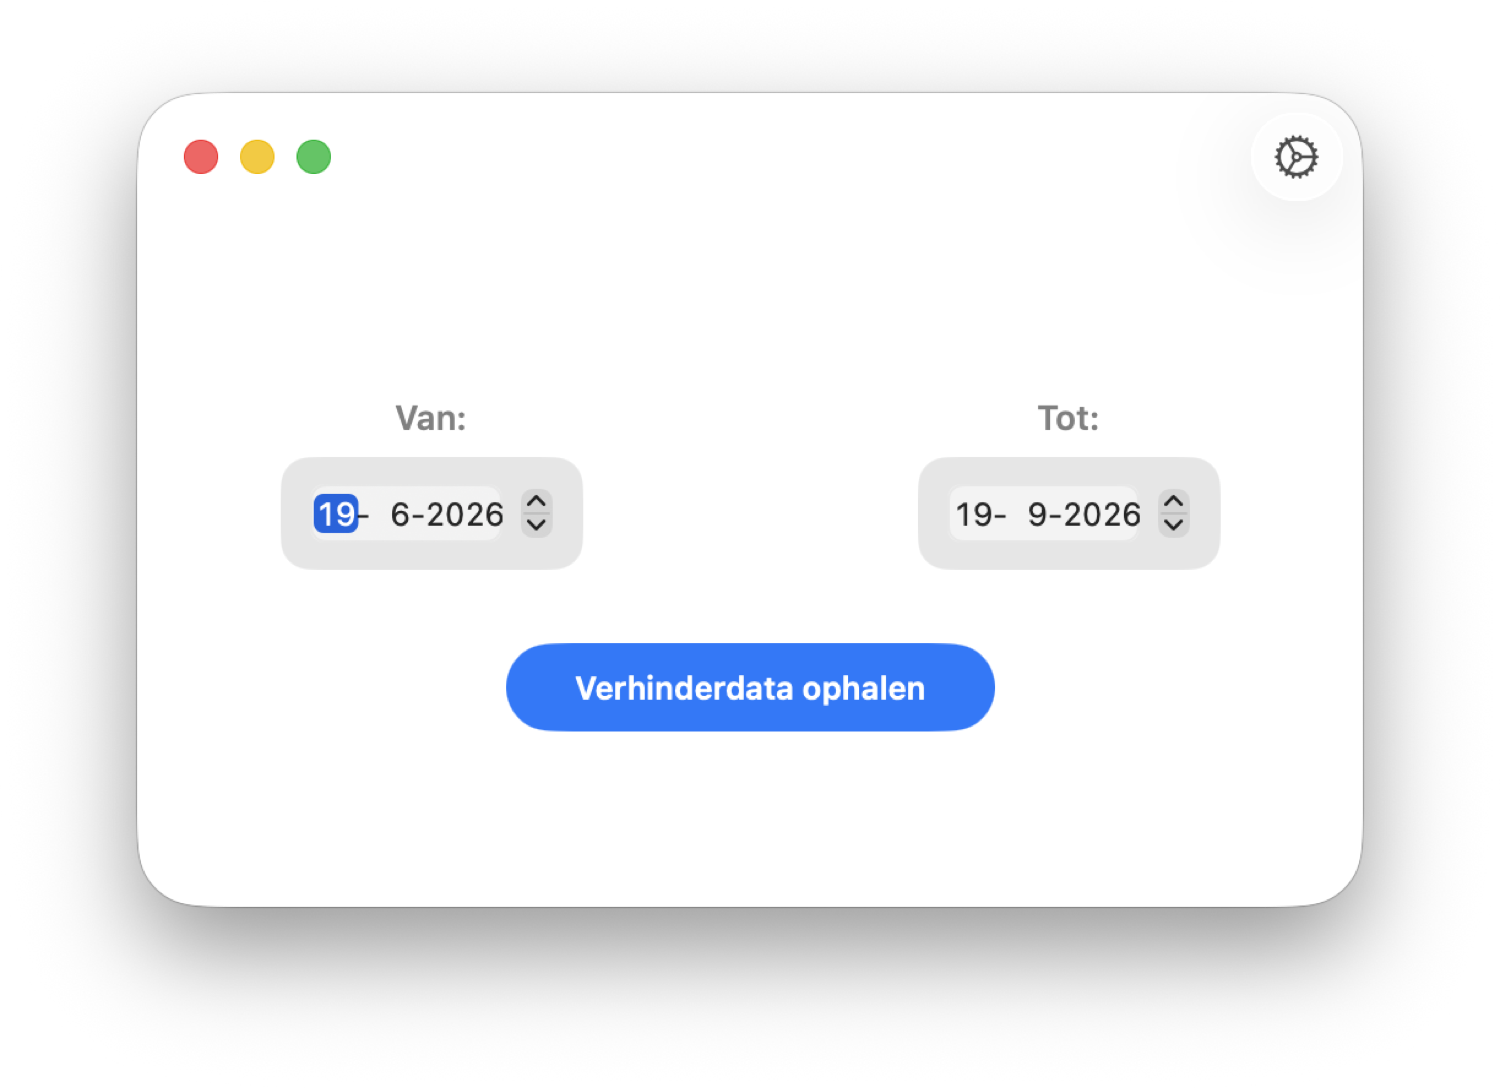
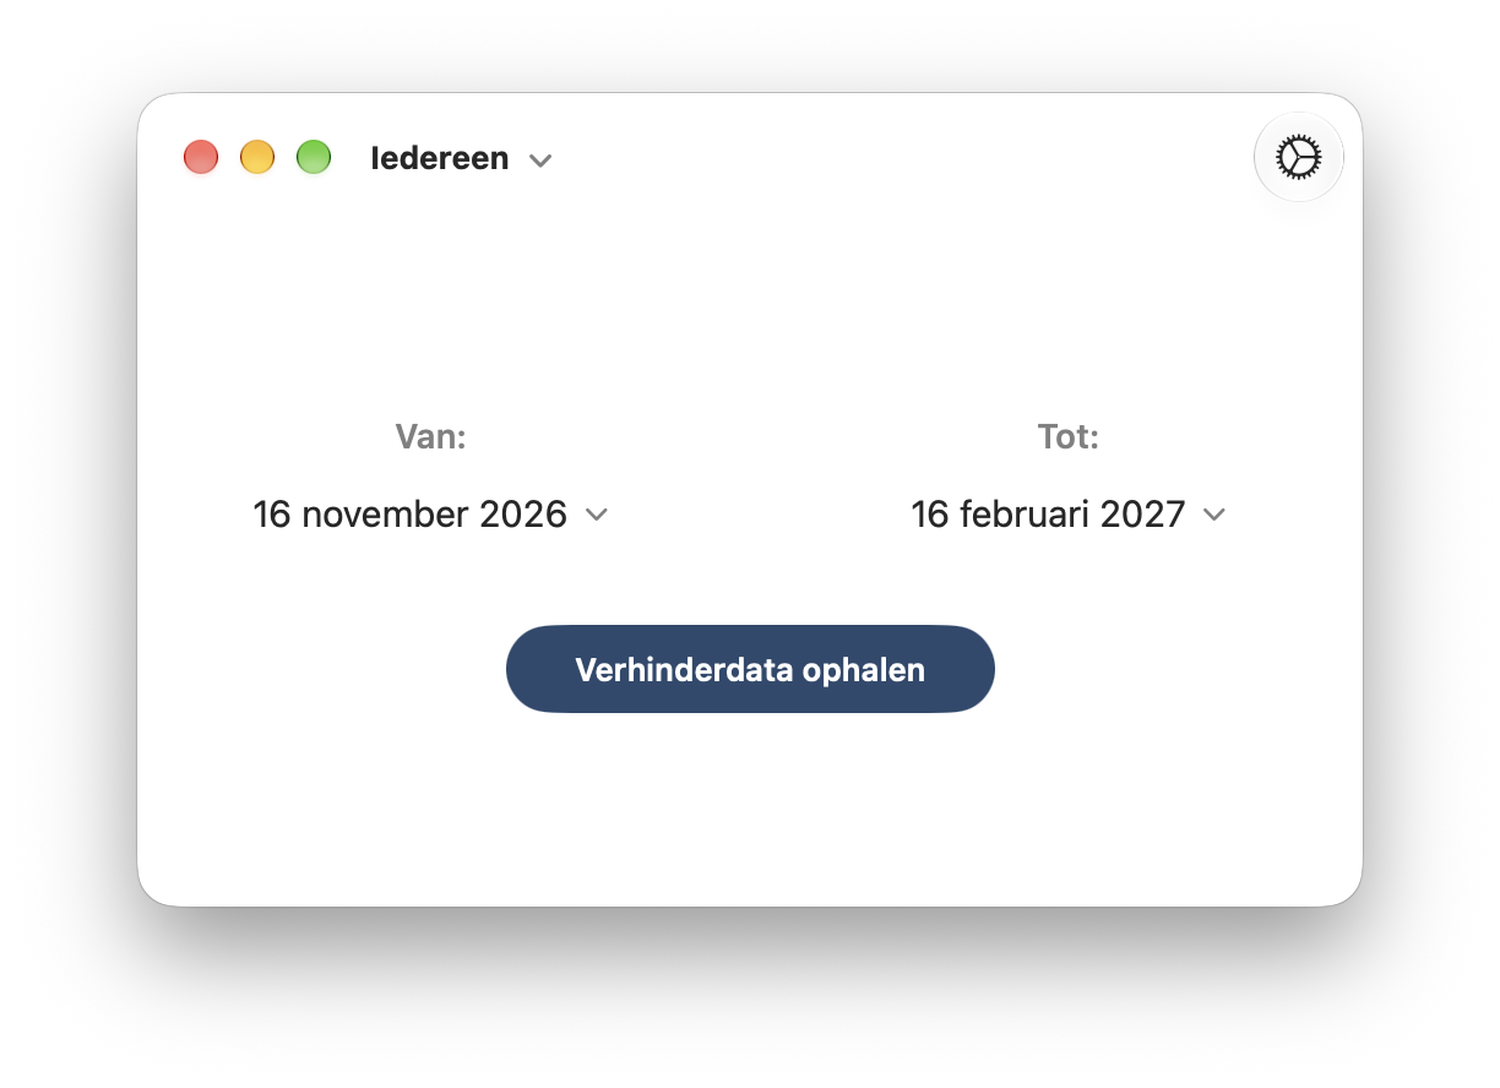
Verhinderdata: nieuwe Mac-screenshots voor 1.2.0 (personen, nieuwe instellingen)

diff --git a/en/verhinderdata/index.html b/en/verhinderdata/index.html
@@ -44,9 +44,9 @@
   <div class="hv">
     <div class="carousel">
       <div class="car-track">
-        <div class="car-slide active"><img src="/verhinderdata/screenshots/hoofdscherm.png?v=4" alt="Verhinderdata main screen"></div>
-        <div class="car-slide"><img src="/verhinderdata/screenshots/resultaten.png?v=4" alt="Verhinderdata results"></div>
-        <div class="car-slide"><img src="/verhinderdata/screenshots/instellingen.png?v=4" alt="Verhinderdata settings"></div>
+        <div class="car-slide active"><img src="/verhinderdata/screenshots/hoofdscherm.png?v=5" alt="Verhinderdata main screen"></div>
+        <div class="car-slide"><img src="/verhinderdata/screenshots/resultaten.png?v=5" alt="Verhinderdata results"></div>
+        <div class="car-slide"><img src="/verhinderdata/screenshots/instellingen.png?v=5" alt="Verhinderdata settings"></div>
       </div>
       <div class="car-dots">
         <button class="car-dot active" onclick="showSlide(0)" aria-label="Main screen"></button>

diff --git a/verhinderdata/index.html b/verhinderdata/index.html
@@ -44,9 +44,9 @@
   <div class="hv">
     <div class="carousel">
       <div class="car-track">
-        <div class="car-slide active"><img src="screenshots/hoofdscherm.png?v=4" alt="Verhinderdata hoofdscherm"></div>
-        <div class="car-slide"><img src="screenshots/resultaten.png?v=4" alt="Verhinderdata resultaten"></div>
-        <div class="car-slide"><img src="screenshots/instellingen.png?v=4" alt="Verhinderdata instellingen"></div>
+        <div class="car-slide active"><img src="screenshots/hoofdscherm.png?v=5" alt="Verhinderdata hoofdscherm"></div>
+        <div class="car-slide"><img src="screenshots/resultaten.png?v=5" alt="Verhinderdata resultaten"></div>
+        <div class="car-slide"><img src="screenshots/instellingen.png?v=5" alt="Verhinderdata instellingen"></div>
       </div>
       <div class="car-dots">
         <button class="car-dot active" onclick="showSlide(0)" aria-label="Hoofdscherm"></button>
